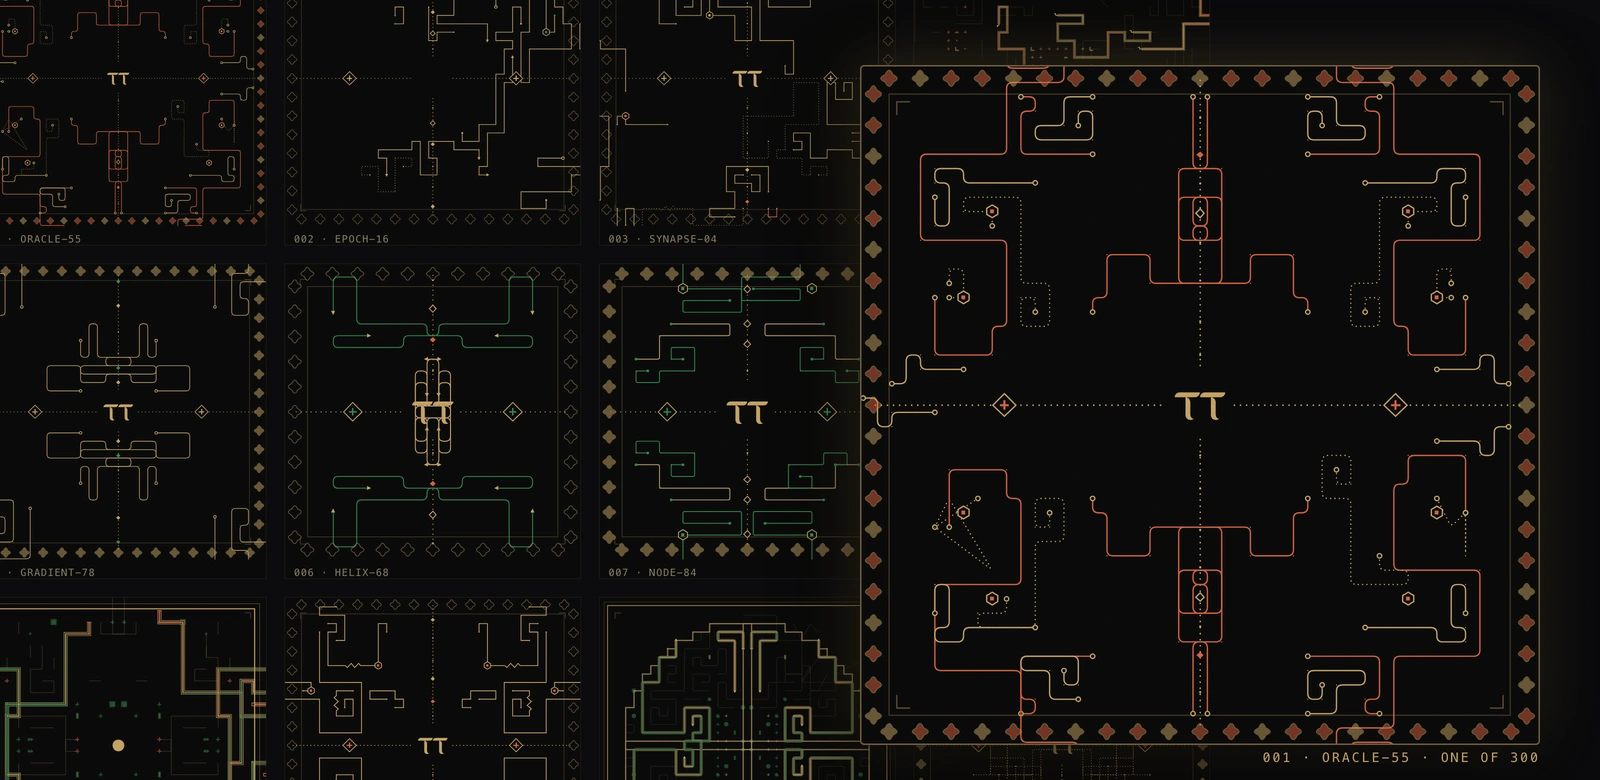
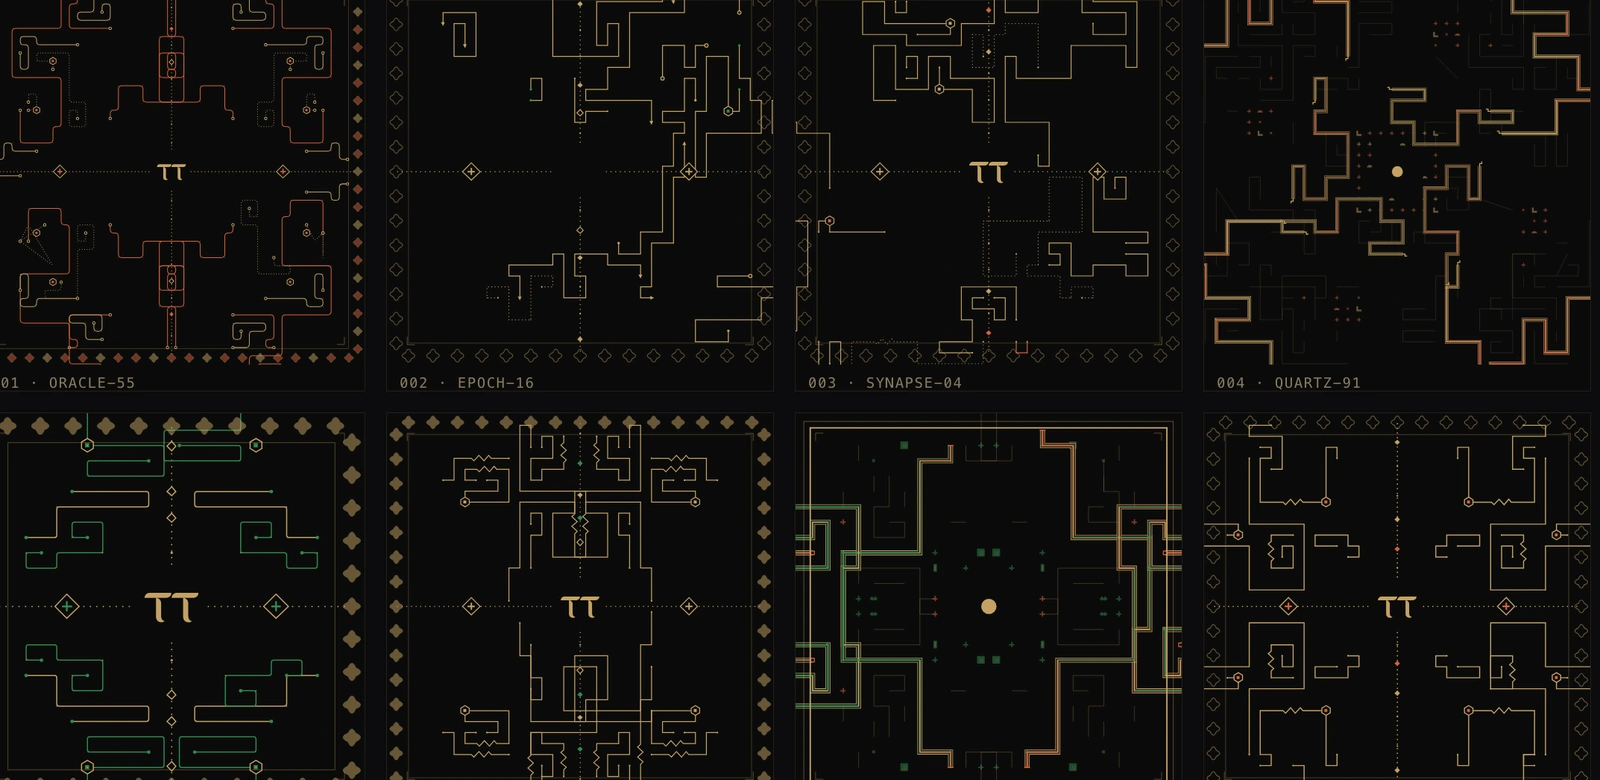
Strip the ledger back to plain real images -- no compositing, anywhere
The floating-card-with-shadow language was fighting the site's own
established doctrine (hairline frames, sparse measured accent, no
glows/shadows -- the Swiss corpus research explicitly names drop
shadows as the trend-site tell) and every attempt at it produced a new
bug: invisible shadows from an opacity scale mistake, dead space that
never filled the frame, a mark's label sitting over the wrong mark's
artwork from a mis-guessed crop coordinate. Four rounds of patching the
technique instead of questioning it.

Cut the whole category out. Every tile is now one real image, presented
plain, inside the site's existing .spec corner-bracket frame -- the same
device already used everywhere else on the site without incident:

- Kaido: the real dashboard screenshot, cropped clean at a row boundary.
  No card overlay.
- Granite: the real "Time to recover" weekly review screen, shown whole
  via a new .wkframe.contain CSS rule (object-fit:contain, no image-level
  compositing at all -- the browser does the fitting, so there's nothing
  left to get wrong).
- Frame: the real "What's sticking" screen -- 71% recall, the actual
  forgetting-curve bars -- same contain treatment.
- IKARAO: eight of the twelve real marks extracted from the engine's own
  DOM (vector SVG, not screenshotted), laid out with no duplication and
  cut by the frame on the right edge. Dropped the floating detail card
  entirely rather than risk a ninth iteration of the same shadow bug.

diff --git a/index.html b/index.html
@@ -749,6 +749,8 @@ section.reveal>.wrap{position:relative;}
 .wkframe{position:relative;width:100%;overflow:hidden;border-radius:4px;background:var(--s1);}
 .wkframe img{display:block;width:100%;height:100%;object-fit:cover;transform:scale(1);transition:transform .6s var(--e-settle);}
 .wkrow:hover .wkframe img{transform:scale(1.022);}
+.wkframe.contain{display:flex;align-items:center;justify-content:center;padding:clamp(20px,3vh,36px) 0;}
+.wkframe.contain img{width:auto;height:100%;max-width:88%;object-fit:contain;}
 .wktext{min-width:0;display:flex;flex-direction:column;gap:12px;}
 @media(min-width:820px){.wktext{text-align:right;align-items:flex-end;}}
 .wkn{font-family:var(--raveo);font-variation-settings:"wght" 640,"opsz" 32;
@@ -828,15 +830,15 @@ section.reveal>.wrap{position:relative;}
         <div class="wktext"><div class="wkn" style="view-transition-name:t-kaido">Kaido<em style="color:var(--acc-kaido)">.</em></div><div class="wkd">Criteria-based rehab planning for clinics &mdash; proposes and monitors, never clears.</div><div class="wkm"><span>SaaS &middot; B2B</span><span class="live">Piloting &middot; kaidohealth.co</span></div></div>
       </a>
       <a class="wkrow" href="work-granite.html">
-        <div class="wkmedia"><div class="spec"><i></i><i></i><i></i><i></i><div class="wkframe" style="view-transition-name:m-granite;aspect-ratio:1600/780"><img src="media/shots/g-tile.webp" alt="Granite — the day-one card with loads struck through and rewritten, and the readiness verdict: train, but hold back" loading="lazy" width="1600" height="780"></div></div></div>
+        <div class="wkmedia"><div class="spec"><i></i><i></i><i></i><i></i><div class="wkframe contain" style="view-transition-name:m-granite;aspect-ratio:1600/780"><img src="media/shots/g-review.webp" alt="Granite — the weekly review: a deload week proposed, with the reasoning shown" loading="lazy" width="1360" height="1740"></div></div></div>
         <div class="wktext"><div class="wkn" style="view-transition-name:t-granite">Granite<em style="color:var(--acc-granite)">.</em></div><div class="wkd">A strength coach for athletes whose sport isn&rsquo;t lifting.</div><div class="wkm"><span>iOS &middot; On-device AI</span><span class="live">Alpha &middot; granite.coach</span></div></div>
       </a>
       <a class="wkrow" href="work-frame.html">
-        <div class="wkmedia"><div class="spec"><i></i><i></i><i></i><i></i><div class="wkframe" style="view-transition-name:m-frame;aspect-ratio:1600/780"><img src="media/shots/f-tile.webp" alt="Frame — the forgetting curve measured on your own reviews, with today’s game plan floating over it" loading="lazy" width="1600" height="780"></div></div></div>
+        <div class="wkmedia"><div class="spec"><i></i><i></i><i></i><i></i><div class="wkframe contain" style="view-transition-name:m-frame;aspect-ratio:1600/780"><img src="media/shots/f-retention-light.webp" alt="Frame — what’s sticking: 71% recall, and the forgetting curve measured on your own reviews" loading="lazy" width="1360" height="1740"></div></div></div>
         <div class="wktext"><div class="wkn" style="view-transition-name:t-frame">Frame<em style="color:var(--acc-frame)">.</em></div><div class="wkd">A BJJ journal built against the forgetting curve.</div><div class="wkm"><span>iOS &middot; Spaced recall</span><span class="live">Alpha &middot; framebjj.app</span></div></div>
       </a>
       <a class="wkrow" href="work-ikarao.html">
-        <div class="wkmedia"><div class="spec"><i></i><i></i><i></i><i></i><div class="wkframe" style="view-transition-name:m-ikarao;aspect-ratio:1600/780"><img src="media/shots/i-hero2.webp" alt="IKARAO — ORACLE-55, one generated mark blown up to reading size, over the real field of 300" loading="lazy" width="1600" height="780"></div></div></div>
+        <div class="wkmedia"><div class="spec"><i></i><i></i><i></i><i></i><div class="wkframe" style="view-transition-name:m-ikarao;aspect-ratio:1600/780"><img src="media/shots/i-hero2.webp" alt="IKARAO — eight of 300 generated marks, each a different name drawn by the same rule, cut by the frame" loading="lazy" width="1600" height="780"></div></div></div>
         <div class="wktext"><div class="wkn" style="view-transition-name:t-ikarao">IKARAO<em style="color:var(--acc-ikarao)">.</em></div><div class="wkd">A generative identity system for Bittensor.</div><div class="wkm"><span>Brand &middot; Engine</span><span class="live">Delivered &middot; bittensor.com</span></div></div>
       </a>
     </div>

diff --git a/work-ikarao.html b/work-ikarao.html
@@ -454,7 +454,7 @@ body.cursor-on,body.cursor-on a,body.cursor-on button,body.cursor-on summary{cur
       <div class="csmeta"><div><b>Services</b><span>Brand &middot; Engine</span></div><div><b>For</b><span><a href="https://bittensor.com" target="_blank" rel="noopener">Bittensor &nearr;</a></span></div><div><b>Role</b><span>Design + build</span></div><div><b>Status</b><span>Delivered</span></div><div><b>Year</b><span>2026</span></div><div><b>Accent</b><span><i class="acc" aria-hidden="true"></i>#A8341F</span></div></div>
     </div>
     <figure class="cshmedia">
-      <div class="spec"><i></i><i></i><i></i><i></i><div class="device device-lg dv-wide" style="view-transition-name:m-ikarao;aspect-ratio:1600/780"><img src="media/shots/i-hero2.webp" alt="IKARAO — ORACLE-55, one generated mark blown up to reading size, over the real field of 300" loading="eager" width="1600" height="780"></div></div>
+      <div class="spec"><i></i><i></i><i></i><i></i><div class="device device-lg dv-wide" style="view-transition-name:m-ikarao;aspect-ratio:1600/780"><img src="media/shots/i-hero2.webp" alt="IKARAO — eight of 300 generated marks, each a different name drawn by the same rule, cut by the frame" loading="eager" width="1600" height="780"></div></div>
       <figcaption class="cshcap"><span class="dot"></span>From the wall of 300 — none drawn by hand</figcaption>
     </figure>
   </div>
